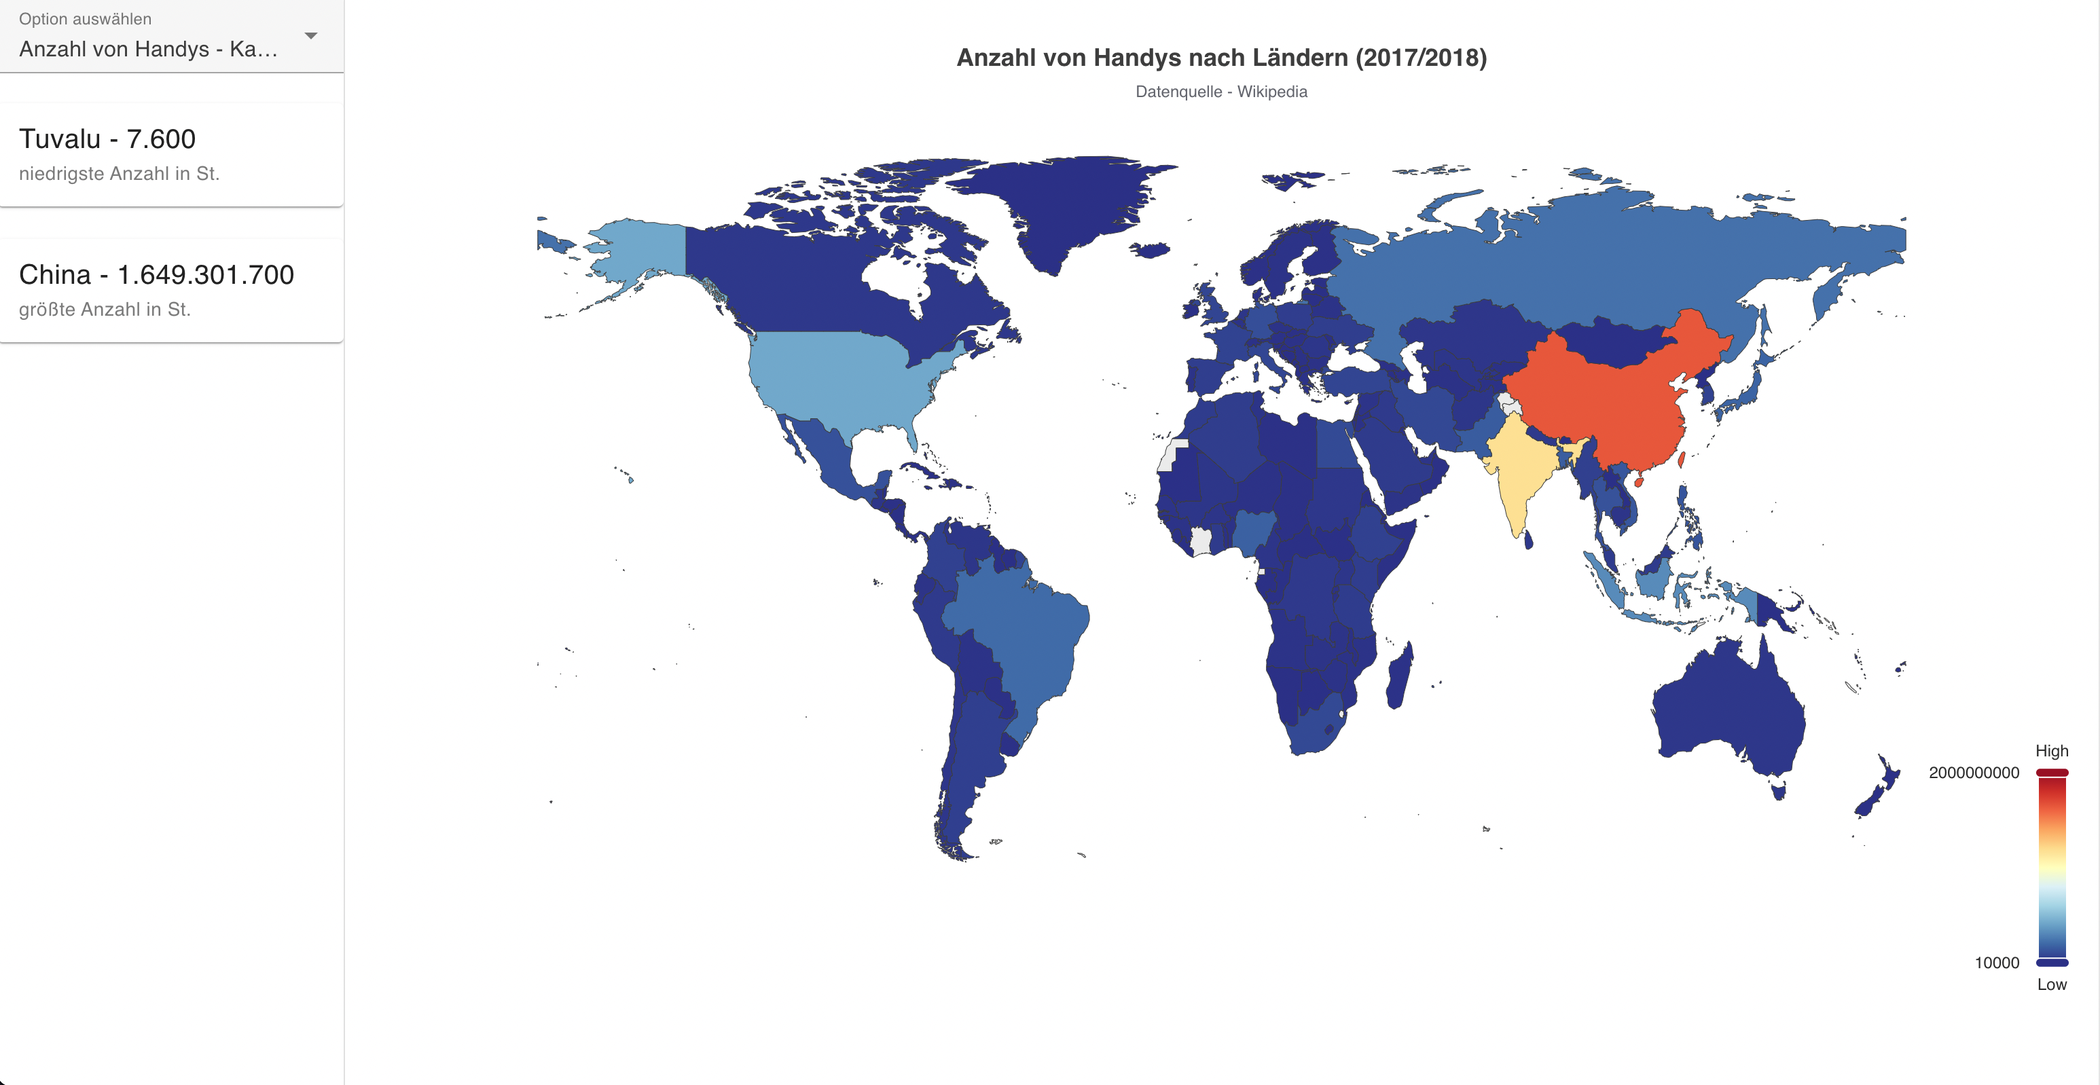
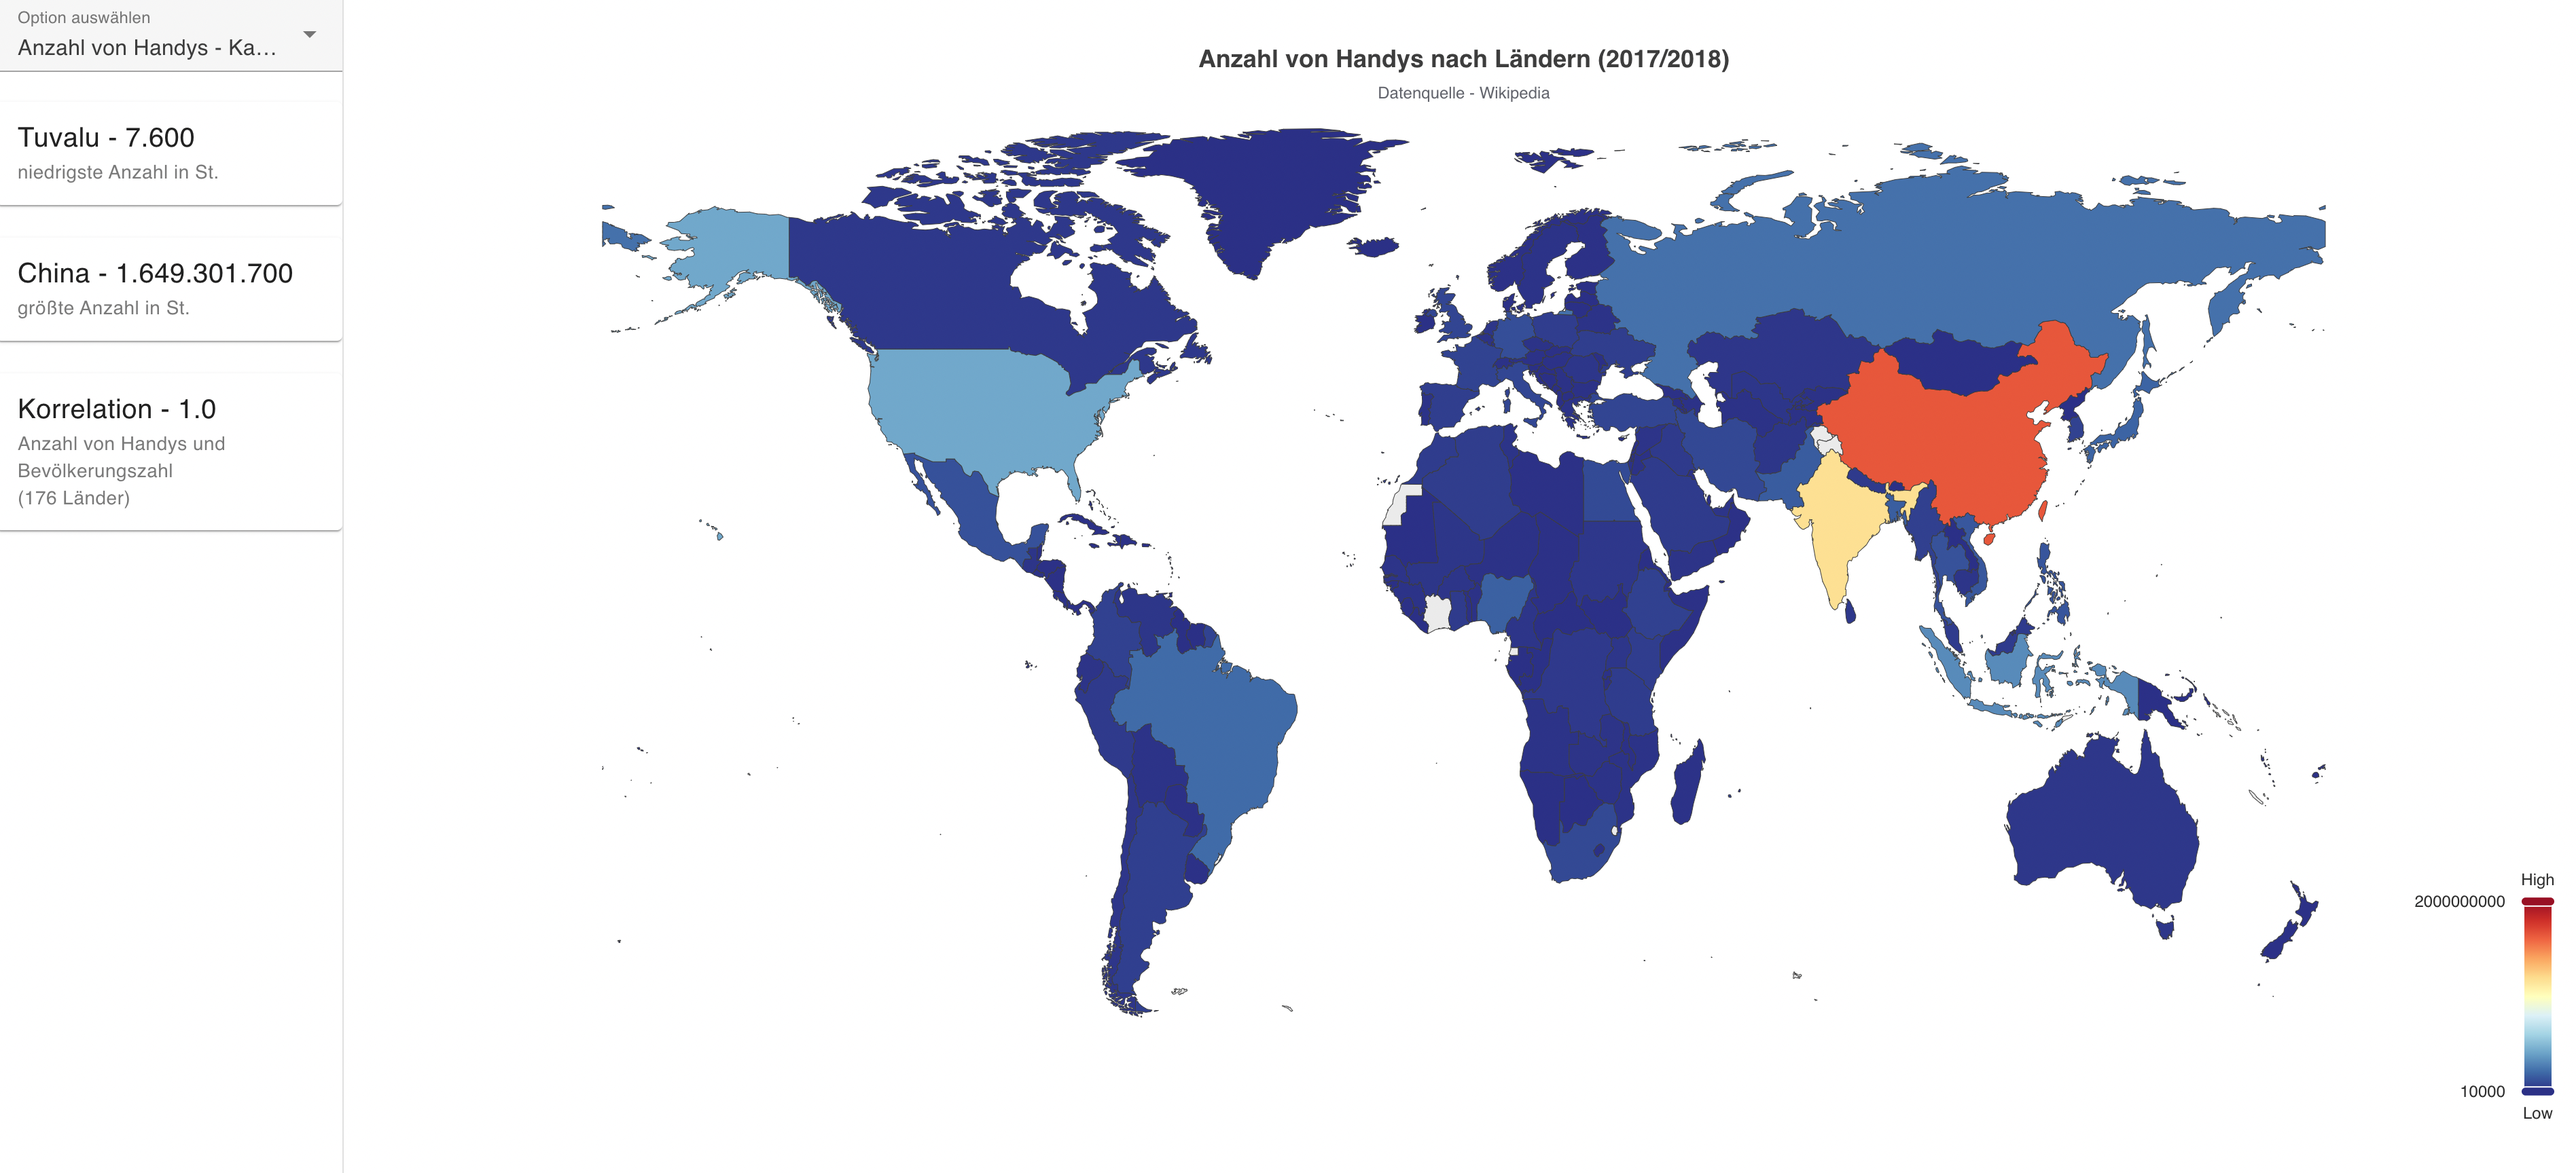
add new correlation for number of peoples and number of phones

diff --git a/src/helpers/DataHelper.ts b/src/helpers/DataHelper.ts
@@ -1,4 +1,5 @@
 import phonesCount from '../tools/phonesCountData.json'
+import populationCount from '../tools/Population.json'
 import populationProportion from '../tools/populationAndPhonesProportionData.json'
 import domesticProducts from '../tools/GDP.json'
 import incomeSize from '../tools/IncomeSize.json'
@@ -17,7 +18,7 @@ const getChartData = (key: keyof typeof chartTypes): IData[] => {
 }
 
 const textCount: string = 'Anzahl von Handys nach Ländern (2017/2018)'
-const textProportion: string = 'Anzahl von Handys pro 100 Personen (2017/2018) und Platz anhand BIP pro Kopf (nominal)'
+const textProportion: string = 'Anzahl von Handys pro 100 Personen (2017/2018)'
 const textSmartphonesProportion: string = 'Anteil von Smartphones (50 Länder)'
 
 const tooltip: {trigger: string, showDelay?: number, transitionDuration?: 0.2} = {
@@ -60,16 +61,15 @@ export const getMapProportionOption = () => {
         },
         series: [
             {
-                name: `'Anzahl in St.'`,
                 type: 'map',
                 map: 'world',
                 data: getChartData('phonesPopulationProportion'),
                 tooltip: {
                     formatter: ((item: IData) => {
                         const customData = `${item.name}: <b>${Number.isNaN(item.value) ? '-' : item.value}</b>`;
-                        return `Anzahl: ${customData}; BIP Platz: <b>${getLandGDPPlace(item.name)}</b>`;
+                        return `Anzahl in St. - ${customData}; BIP pro Kopf - Platz: <b>${getLandGDPPlace(item.name)}</b>`;
                     })
-                    }
+                }
             },
         ],
     }
@@ -109,10 +109,15 @@ export const getMapCountOption = () => {
         },
         series: [
             {
-                name: 'Anzahl in St.',
                 type: 'map',
                 map: 'world',
                 data: getChartData('count'),
+                tooltip: {
+                    formatter: ((item: IData) => {
+                        const customData = `${item.name}: <b>${Number.isNaN(item.value) ? '-' : item.value.toLocaleString('DE-de')}</b>`;
+                        return `Anzahl von H. in St. - ${customData}; Bevölkerungszahl (2018): <b>${getCountryPopulationCount(item.name)}</b>`;
+                    })
+                }
             },
         ],
     }
@@ -219,6 +224,23 @@ export const getLandGdp = (land: string): number => {
     return domesticProducts.indexOf(domesticProducts.find(item => item.name === land) as IData) + 1
 }
 
+// population count AND number of phones
+export const populationsPhonesCountCorrelation = (): string => {
+
+    const filteredPopulation = populationCount
+        .filter(pop => phonesCount.some(phon => pop.name === phon.name))
+        .sort((a, b) => a.name.localeCompare(b.name))
+        .map(item => item.value)
+
+    const filteredPhones = phonesCount
+        .filter(pop => populationCount.some(prod => prod.name === pop.name))
+        .sort((a, b) => a.name.localeCompare(b.name))
+        .map(item => item.value)
+
+    return calculateCorrelation(filteredPopulation, filteredPhones)
+}
+
+// GDP per person in $ AND number of smartphones per 100 people
 export const gdpSmartphoneCorrelation = (): string => {
 
     const filteredProducts = domesticProducts
@@ -234,6 +256,7 @@ export const gdpSmartphoneCorrelation = (): string => {
     return calculateCorrelation(filteredProducts, filteredProportion)
 }
 
+// average income per Country AND smartphones proportion
 export const incomeSmartphoneCorrelation = (): string => {
     const filteredIncomes = incomeSize.map(item => item.value)
     let filteredSmartphones: number[] = []
@@ -271,4 +294,9 @@ const calculateCorrelation = (arr1: number[], arr2: number[]) => {
 const getLandGDPPlace = (land: string): number|'-' => {
     const index = domesticProducts.findIndex(item => item.name === land) + 1
     return index < 1 ? '-' : index
+}
+
+const getCountryPopulationCount = (land: string): string => {
+    const item = (populationCount as IData[]).find(item => item.name === land)
+    return item?.value.toLocaleString('DE-de') ?? '-'
 }

diff --git a/src/components/InfoCards.vue b/src/components/InfoCards.vue
@@ -17,7 +17,7 @@
 <script lang="ts">
 import {defineComponent, ref, onMounted} from "vue";
 import type {ICard} from "@/types/ICard";
-import {calculatePopulationPart, findSmartphonesMinMax, gdpSmartphoneCorrelation, getLandGdp, incomeSmartphoneCorrelation} from "@/helpers/DataHelper";
+import {calculatePopulationPart, findSmartphonesMinMax, gdpSmartphoneCorrelation, getLandGdp, incomeSmartphoneCorrelation, populationsPhonesCountCorrelation} from "@/helpers/DataHelper";
 import type {ICalculation} from "@/types/ICalculation";
 
 export default defineComponent({
@@ -32,7 +32,8 @@ export default defineComponent({
 
     const countCardsInfo = ref<ICard[]>([
       {text:'niedrigste Anzahl in St.', country: smartphonesCountMinMax.value[1]['name'], quantity:smartphonesCountMinMax.value[1]['count']},
-      {text:'größte Anzahl in St.', country: smartphonesCountMinMax.value[0]['name'], quantity: smartphonesCountMinMax.value[0]['count']}
+      {text:'größte Anzahl in St.', country: smartphonesCountMinMax.value[0]['name'], quantity: smartphonesCountMinMax.value[0]['count']},
+      {text:'Anzahl von Handys und Bevölkerungszahl \n (176 Länder)', country: 'Korrelation', quantity: populationsPhonesCountCorrelation()}
     ])
 
     const humanProportionCardsInfo = ref<ICard[]>([
@@ -41,7 +42,7 @@ export default defineComponent({
       {text:'Platz anhand BIP pro Kopf', country: smartphonesProportionMinMax.value[1]['name'], quantity: getLandGdp(smartphonesProportionMinMax.value[1]['name'])},
       {text:'Platz anhand BIP pro Kopf', country: smartphonesProportionMinMax.value[0]['name'], quantity: getLandGdp(smartphonesProportionMinMax.value[0]['name'])},
       {text:'Mehr als 100 H. pro 100 M.', country: 'Anteil', quantity: calculatePopulationPart()},
-      {text:'Anzahl von Handys pro 100 M. und Bruttoinlandsprodukt in $ \n (187 Länder)', country: 'Korrelation', quantity: gdpSmartphoneCorrelation()}
+      {text:'Anzahl von Handys pro 100 M. und Bruttoinlandsprodukt in $\n (187 Länder)', country: 'Korrelation', quantity: gdpSmartphoneCorrelation()}
     ])
 
     const smartphonesProportionCardsInfo = ref<ICard[]>([

diff --git a/README.md b/README.md
@@ -16,11 +16,11 @@ _2. Der Code muss kompiliert werden:_
 npm run dev
 ```
 
-Nach dem Start lässt sich die Seite unter folgendem Link aufrufen (Localhost): 
-<a href="http://localhost:5173/visualisation-project/">Link</a>
+Nach dem Start lässt sich die Seite (localhost) unter folgendem [Link](http://localhost:5173/visualisation-project/) aufrufen \
+Echte Seite (deployed) kann mit dem folgenden [Link](https://evr1k01.github.io/visualisation-project/) aufgerufen werden
 
 ## Project Guide
-So sieht die erste Seite aus, auf die man beim Afruf der URL-Adresse landet, falls die vorherigen Befehle ausgeführt wurden: \
+So sieht die erste Seite aus, auf die man beim Aufruf der URL-Adresse landet, falls die vorherigen Befehle ausgeführt wurden: \
 <img alt="Initial Page" height="400" src="./src/assets/images/InitialPage.png" width="775"/>
 
 Die Anwendung besteht aus 4 Seiten, die jeweils eine Art von Diagramm enthalten,
@@ -30,7 +30,7 @@ Alle Grafiken beziehen sich auf das Thema Smartphone-Besitz, und beleuchten es a
 Der **[Hauptteil](./src/assets/images/MainPart.png)** der Seite wird immer von einer Visualisierung (Landkarte, Balkendiagramm) eingenommen.
 
 Auf der linken Seite, in dem **[Sidebar](./src/assets/images/Sidebar.png)**, werden auf jeder Seite Kennzahlen dargestellt, die Daten aus dem Hauptsatz hervorheben. \
-Dazu gehören bspw. _min_ oder _max_ Werte, oder _Korellation_ zwischen zwei Werten (Seite 3 und 4)
+Dazu gehören bspw. _min_ oder _max_ Werte, oder _Korrelation_ zwischen zwei Werten (Seite 3 und 4)
 
 Der **[Combobox](./src/assets/images/Combobox.png)** ist dafür vorgesehen, die Seiten zu wechseln.
 
